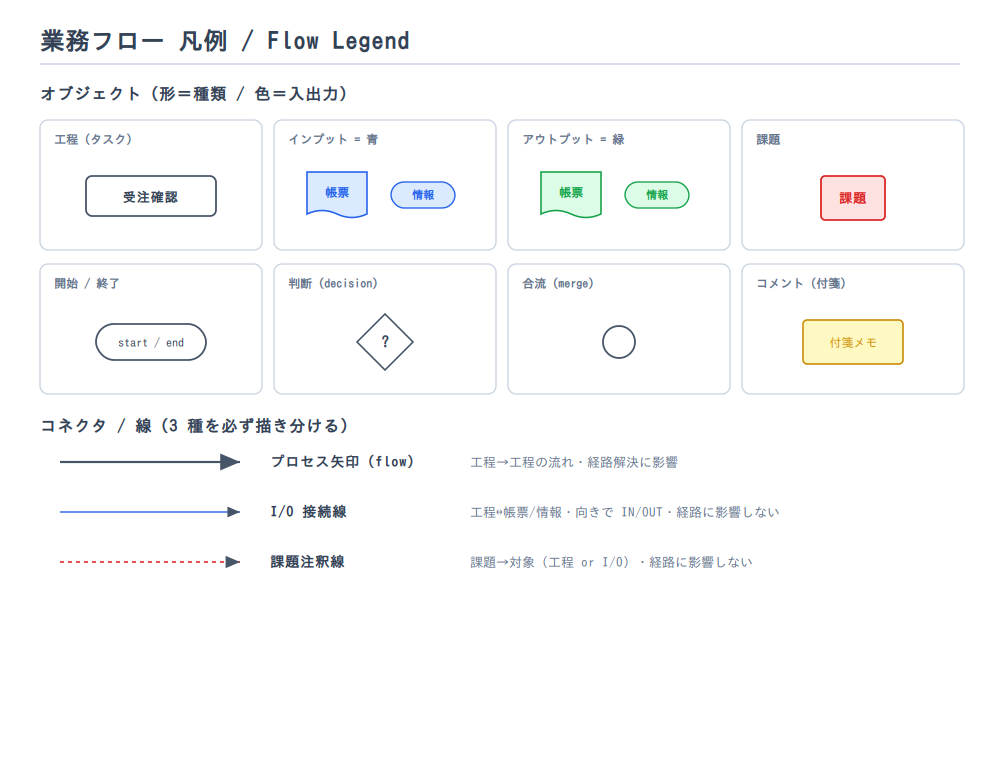
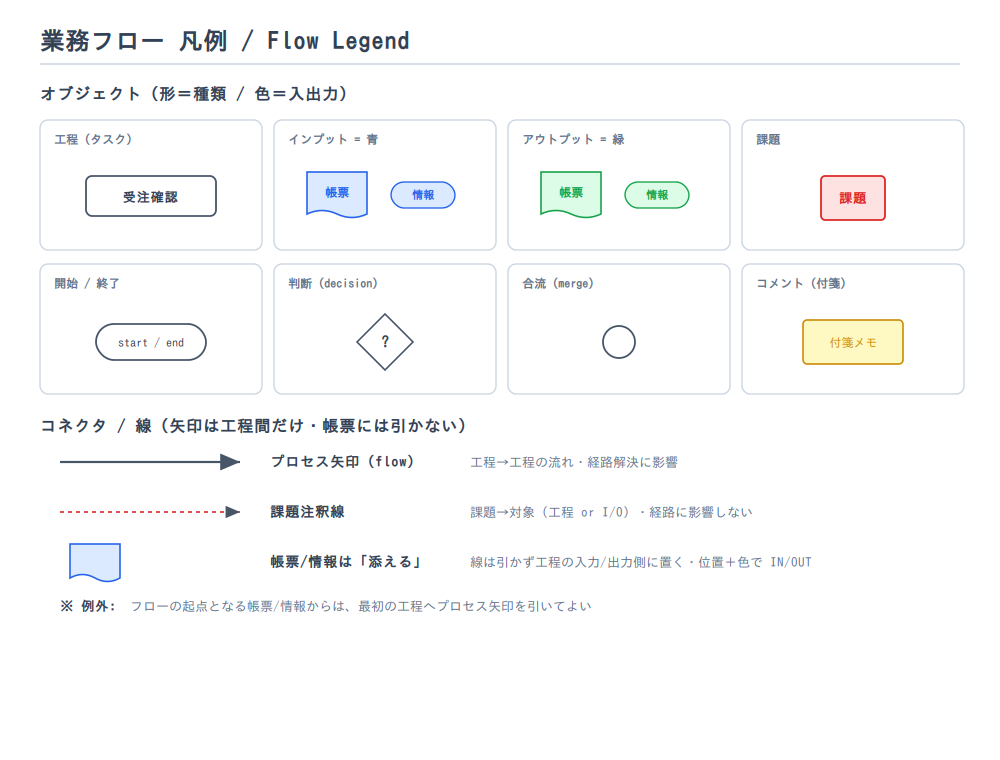
帳票/情報は「添える」（線なし）に作法修正＋起点例外
- 業務フロー図の作法に合わせ、I/O接続線を廃止。帳票/情報は工程に添える
  だけ（接続線を引かない）。入出力は配置(入力側/出力側)＋色(青/緑)で表現
- 例外: フローの起点となる帳票/情報からのみ、最初の工程へプロセス矢印を
  引いてよい（pinnedのrole:"flow"・source=帳票ノード・経路解決に参加）
- 03 §2-3/§2-4 を更新（線の語彙はプロセス矢印＋課題注釈線の2種に）
- ワイヤー2枚を更新（受付票=出力は線なしで添える／注文書=起点のみ矢印）、
  凡例も「添える」と例外を明記

https://claude.ai/code/session_01PpBLprMPRjbUb3FJbuGpJi

diff --git a/docs/wireframes/build.py b/docs/wireframes/build.py
@@ -156,15 +156,15 @@ def shell():
     # nodes (decluttered: no start/end pills; pills are in the legend)
     n1x, n1y = band_x+150, top+162    # 注文書受付 (営業) highlighted
     n2x, n2y = band_x+250, top+278    # 出荷準備 (倉庫)
-    # input doc (blue) to the LEFT of node1 (IN = arrow toward node)
+    # input doc (blue) — フローの起点トリガなので例外的にプロセス矢印を引く
     s.append(doc(band_x+24, n1y+1, 56, 38, BLU, BLU_F, "注文書"))
-    s.append(arrow(band_x+82, n1y+20, n1x-4, n1y+20, BLU, sw=1.4))
+    s.append(t(band_x+52, n1y-7, "起点", 10, MUT, "normal", "middle"))
+    s.append(arrow(band_x+82, n1y+20, n1x-3, n1y+20, NODE))  # 起点帳票→最初の工程＝流れ矢印
     # node1 highlighted
     s.append(rect(n1x, n1y, 150, 40, ACC_FILL, ACC, rx=6, sw=2))
     s.append(t(n1x+75, n1y+25, "注文書受付", 13, ACC, "bold", "middle"))
-    # output doc (green) to the RIGHT of node1 (OUT = arrow from node)
-    s.append(arrow(n1x+150, n1y+20, n1x+168, n1y+20, GRN, sw=1.4))
-    s.append(doc(n1x+170, n1y+1, 56, 38, GRN, GRN_F, "受付票"))
+    # output doc (green) — 「添える」だけ（接続線なし）。出力側にぴったり寄せる
+    s.append(doc(n1x+156, n1y+1, 56, 38, GRN, GRN_F, "受付票"))
     # arrow node1 -> node2 (営業 → 倉庫, crosses lanes)
     s.append(arrow(n1x+75, n1y+40, n2x+75, n2y-2, NODE))
     # node2
@@ -177,11 +177,10 @@ def shell():
     # legend mini
     ly0 = top+pane_h-40
     s.append(arrow(flw_x+20, ly0-4, flw_x+50, ly0-4, NODE, sw=2))
-    s.append(t(flw_x+58, ly0, "流れ", 11, NODE))
-    s.append(arrow(flw_x+120, ly0-4, flw_x+150, ly0-4, BLU, sw=1.4))
-    s.append(t(flw_x+158, ly0, "I/O接続(青=入/緑=出)", 11, MUT))
-    s.append(arrow(flw_x+330, ly0-4, flw_x+360, ly0-4, RED, dash="4 4", sw=1.4))
-    s.append(t(flw_x+368, ly0, "課題注釈線", 11, RED))
+    s.append(t(flw_x+58, ly0, "流れ(工程間)", 11, NODE))
+    s.append(t(flw_x+150, ly0, "帳票/情報=添える(線なし)・色で入出力", 11, MUT))
+    s.append(arrow(flw_x+390, ly0-4, flw_x+420, ly0-4, RED, dash="4 4", sw=1.4))
+    s.append(t(flw_x+428, ly0, "課題注釈線", 11, RED))
 
     # ===== linked selection connector (table row -> flow node top)
     s.append(f'<path d="M{tbl_x+tbl_w-8},{hl_row_y} C{flw_x-30},{hl_row_y} '
@@ -274,10 +273,9 @@ def legend():
 
     # Section 2: connectors
     sy = gy + 2 * (chh + 14) + 24
-    s.append(t(40, sy, "コネクタ / 線（3 種を必ず描き分ける）", 16, INK, "bold"))
+    s.append(t(40, sy, "コネクタ / 線（矢印は工程間だけ・帳票には引かない）", 16, INK, "bold"))
     rows = [
         ("プロセス矢印（flow）", "工程→工程の流れ・経路解決に影響", "solid"),
-        ("I/O 接続線", "工程↔帳票/情報・向きで IN/OUT・経路に影響しない", "io"),
         ("課題注釈線", "課題→対象（工程 or I/O）・経路に影響しない", "issue"),
     ]
     ly = sy + 30
@@ -285,13 +283,18 @@ def legend():
         x1, x2 = 60, 240
         if kind == "solid":
             s.append(arrow(x1, ly, x2, ly, NODE, sw=2.2))
-        elif kind == "io":
-            s.append(arrow(x1, ly, x2, ly, BLU, sw=1.4))
         elif kind == "issue":
             s.append(arrow(x1, ly, x2, ly, RED, dash="4 4", sw=1.6))
         s.append(t(270, ly+5, label, 14, INK, "bold"))
         s.append(t(470, ly+5, desc, 13, MUT))
         ly += 50
+    # I/O rule note
+    s.append(doc(70, ly-18, 50, 34, BLU, BLU_F, ""))
+    s.append(t(270, ly+5, "帳票/情報は「添える」", 14, INK, "bold"))
+    s.append(t(470, ly+5, "線は引かず工程の入力/出力側に置く・位置＋色で IN/OUT", 13, MUT))
+    ly += 44
+    s.append(t(60, ly+5, "※ 例外:", 13, INK, "bold"))
+    s.append(t(130, ly+5, "フローの起点となる帳票/情報からは、最初の工程へプロセス矢印を引いてよい", 13, MUT))
 
     s.append('</svg>')
     return "\n".join(s)

diff --git a/docs/03-view-spec.md b/docs/03-view-spec.md
@@ -115,38 +115,42 @@
 | オブジェクト | 形 | 色 | 由来 | 同期 |
 |---|---|---|---|---|
 | **工程（タスク）** | 四角（長方形） | 既定／担当レーン色 | コア | 表⇄図（ラベル＝作業名） |
-| **インプット（I/O）** | `kind` で **帳票形** or **情報チップ** | 入力色（例: 青系）＋接続線が**工程へ向かう**（IN） | 表詳細 `inputs[]`（`IoItem`） | 表→図（表が源泉、配置は手動保持） |
-| **アウトプット（I/O）** | `kind` で **帳票形** or **情報チップ** | 出力色（例: 緑系）＋接続線が**工程から出る**（OUT） | 表詳細 `outputs[]`（`IoItem`） | 表→図（同上） |
+| **インプット（I/O）** | `kind` で **帳票形** or **情報チップ** | 入力色（例: 青系）。工程の**入力側に添える**（IN） | 表詳細 `inputs[]`（`IoItem`） | 表→図（表が源泉、配置は手動保持） |
+| **アウトプット（I/O）** | `kind` で **帳票形** or **情報チップ** | 出力色（例: 緑系）。工程の**出力側に添える**（OUT） | 表詳細 `outputs[]`（`IoItem`） | 表→図（同上） |
 | **課題** | 四角 | **赤** | 表詳細 `issues[]`（`IssueItem`） | 表→図、対象へ注釈線、表示/非表示トグル |
 | 開始／終了 (start/end) | 角丸／端点 | — | フロー固有 | フローのみ（レーン非依存） |
 | 判断 (decision) | ひし形 | — | フロー固有 | フローのみ（**分岐は図でだけ描く**。条件は出力エッジのラベル・レーン非依存） |
 | 合流 (merge) | ひし形／小円 | — | フロー固有 | フローのみ（レーン非依存） |
 | コメント（付箋） | 付箋／吹き出し | — | フロー固有 | フローのみ（自由テキスト・**同期しない**・`FlowComment`） |
 
-> 入力/出力は**色だけに頼らず、I/O 接続線の向き**（工程へ入る＝IN／工程から出る＝OUT）でも判別できる（§2-4・色覚配慮）。
+> **帳票/情報（I/O）は工程に「添える」（接続線は引かない）**。入力/出力は**配置（入力側/出力側）＋色（青/緑）**で示す（業務フロー図の作法＝図書から流れ矢印を伸ばさない）。
+> **例外**: その帳票/情報が**フローの起点（最初の工程がその帳票・情報から始まる）**のときだけ、帳票→最初の工程へ**プロセス矢印を引いてよい**（§2-4）。
 > **制御ノード（開始/終了/判断/合流）は担当を持たない** → スイムレーンに束縛されず、バンド内に手動配置する。
 
 - **工程**＝作業 1 件＝ノード 1 個（その粒度において）。
 - **I/O（帳票/情報）**: 表の I/O が複数あれば**その数だけオブジェクトが並ぶ**（I/O 1 件＝ノード 1 個）。
   **単位は工程の粒度に連動** — 中工程では帳票（例「注文書」、帳票形）、小工程では情報（例「顧客名」「数量」、情報チップ）。
   「情報が集まって帳票になる」関係はあるが当面データ上は繋がない（フラット）。内容は表を live 表示（図側で本文編集はしない＝表が源泉）。
-  様式番号・保管は各 I/O（主に帳票）の付随情報として表示できる。既定では工程の入力側／出力側に積んで配置し、前工程の出力＝次工程の入力をつなぐ運用ができる。
+  様式番号・保管は各 I/O（主に帳票）の付随情報として表示できる。既定では**工程の入力側／出力側に添えて**配置（接続線は引かない）。同名の帳票でも前工程の出力と次工程の入力は別オブジェクト（必要なら手動の同一帳票リンク・§2-4）。
 - **課題**: 表の「課題」「方策」が源泉。**課題が複数あれば複数の赤四角**が出る（課題 1 件＝ノード 1 個）。
   各課題は**対象オブジェクト（工程ノード or 特定の I/O ノード）に注釈線**を引いて示す（対象は課題ごとに選べる）。
   注釈線は**流れ（プロセス矢印）ではない**ため、依存・経路解決には影響しない。表示/非表示を切り替えられる（§2-6）。
 
 ### 2-4. 線（コネクタ）の語彙
 
-フロー図には**役割の異なる線が 3 種類**あり、**スタイルで明確に区別**する。混同すると図が読めないため、見た目を必ず分ける。
+**矢印（流れ）は工程間にだけ引く。帳票/情報には線を引かず「添える」**のが原則（§2-3）。
+フロー図に出る線は次のとおりで、**スタイルで明確に区別**する。
 
 | 線 | 役割 | スタイル（例） | 経路解決への影響 | 由来 |
 |---|---|---|---|---|
 | **プロセス矢印** | 工程→工程の**流れ** | 実線＋矢頭 | **あり**（依存・経路） | コア依存 `derivedFromDependencyId` / ユーザー描画 `pinned` |
-| **I/O 接続線** | 工程 ↔ 帳票/情報（**向きで IN/OUT**） | 細い実線（矢頭は工程側＝IN／I/O 側＝OUT） | なし | I/O オブジェクトの帰属（自動） |
 | **課題注釈線** | 課題 → 対象（工程 or I/O） | 点線・別色 | なし | `FlowIssueNote.targetNodeId` |
 
+- **帳票/情報（I/O）には接続線を引かない**。工程の入力側/出力側に**添えて**、配置＋色で IN/OUT を示す。
+- **例外（起点トリガ）**: 帳票/情報が**フローの起点**のときだけ、その帳票/情報 → 最初の工程へ**プロセス矢印**を引いてよい
+  （帳票が開始ノードの役割。`pinned` のフローエッジ＝`role:"flow"`、source が帳票ノード。経路解決に参加する）。
 - **プロセス矢印**: ユーザーが A→判断→B のように経路を作っている場合、同期は直接 A→B を**勝手に張らない**（`04-sync-spec.md`）。
-- **I/O 接続線・課題注釈線は「流れ」ではない** → 依存・経路解決には一切影響しない。
+- **課題注釈線は「流れ」ではない** → 依存・経路解決には影響しない。
 - **同一帳票リンク（任意・手動）**: 「前工程の出力＝次工程の入力」が同じ帳票でも、フラットモデルでは**2 オブジェクトが独立**して出る（§2-3）。
   必要なら**ユーザーが両者を結ぶ連結線を手動で引ける**（任意・装飾的な手動コネクタ＝`pinned` の非フロー線。経路解決に影響しない）。既定では引かない。
 